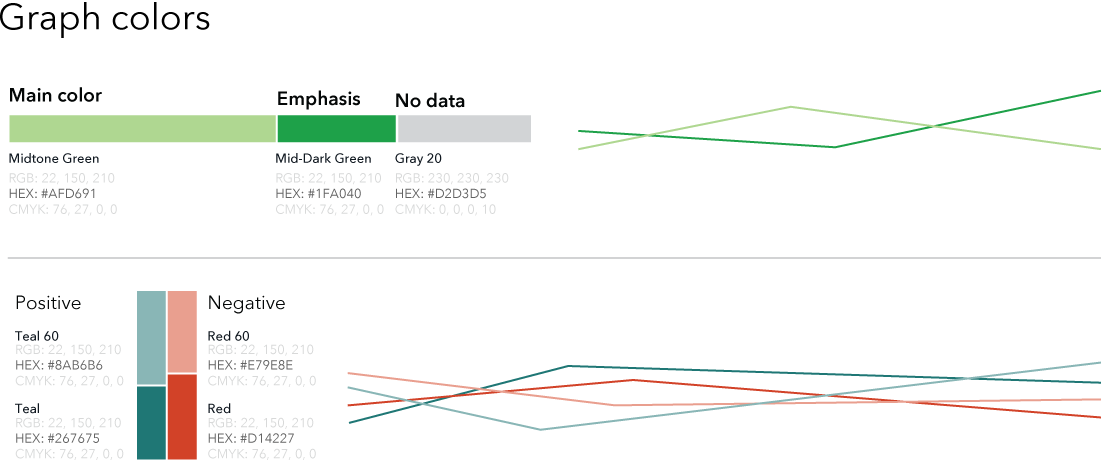
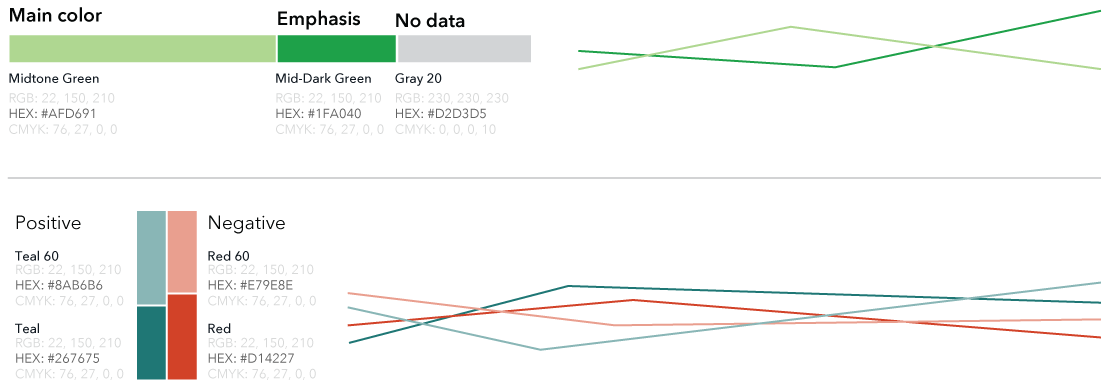
Add a few missing images and crop some existing ones

diff --git a/data-visualization/color.md b/data-visualization/color.md
@@ -41,6 +41,14 @@ width="100%">
 To highlight part of a set of data, or show that things are related, use a tint
 or a shade of the main color.
 
+##### Examples
+
+<img
+src="{{site.baseurl}}/static/img/data-visualization/subsets-and-relationships-color-1.png"
+alt="Bar chart using subsets and relationships in color for financial
+marketplace complaints in both New York state and the smaller New York metro
+area." height="50%" width="50%">
+
 #### Categorical
 Use categorical color schemes when you're visualizing groups of things. These
 are discrete colors that do not imply an visual relationship between the sets
@@ -59,10 +67,12 @@ alt="Bar chart using categorical color while showing complaints by region (New
 When you're displaying sequential data that shows a range of data in a ranked
 order, use these sequential colors to imply the relationship.
 
+##### Examples
+
 <img
-src="{{site.baseurl}}/static/img/data-visualization/datavis_color_03_09.png"
-alt="A list of sequential colors for use in data visualizations." height="100%"
-width="100%">
+src="{{site.baseurl}}/static/img/data-visualization/sequential-color-1.png"
+alt="Map using sequential color to show a percentage change across different
+areas of the United States." height="50%" width="50%">
 
 ### Color accessibility
 Color should never be solely relied on to convey meaning in a visualization

diff --git a/data-visualization/data-visualization.md b/data-visualization/data-visualization.md
@@ -5,7 +5,8 @@ category: Data visualization
 published: true
 ---
 
-### Whether you're using Excel, Tableau, D3.js, or any other program, follow these guidelines to create effective and consistent data visualizations.
+### Whether you're using Excel, Tableau, D3.js, or any other program, follow
+these guidelines to create effective and consistent data visualizations.
 
 
 Data visualization can be an excellent way to increase understanding and make
